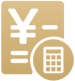
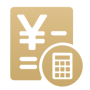
[feat]修改金额格式，千字符，我的凭证入口图标修改 related in issue #140

diff --git a/app/service/view/VouchersCell.js b/app/service/view/VouchersCell.js
@@ -15,71 +15,72 @@ import {
     InteractionManager
 } from 'react-native';
 import {SCREEN_HEIGHT,SCREEN_WIDTH} from '../../config';
+import {formatmoney} from '../../util/FormatMoney';
 const itemWidth = (SCREEN_WIDTH-setSpText(33))/4
 export default class VouchersCell extends Component {
     constructor(props){
         super(props)
-        this.state={
-            relateDate:'',
-            debitMoney:'',//借方总金额
-            subject_Abstract:'',//摘要
-        }
     }
 
     static defaultProps = {
         onPress:function() {//点击事件
 
         },
-        item:{}
+        item:{},
+        isclick:true,//列表可点击
     }
 
-    componentWillMount() {
+    renderItem(relateDate,debitMoney,subject_Abstract){
+        return(
+            <View style = {styles.ViewStyle}>
+                <View style = {[styles.itemStyle]}>
+                    <View style = {{flexDirection:'column-reverse',}}>
+                        <Text style={{fontSize:12,color:'#999999'}} numberOfLines={1}>{relateDate}</Text>
+                        <Text style={{fontSize:14,color:'#333333'}} numberOfLines={1}>{this.props.item.voucherWord}</Text>
+                    </View>
+                </View>
+                <View style = {[styles.itemStyle,{width:itemWidth*2}]}>
+                    <Text style={styles.digestStyle} numberOfLines={2}>{subject_Abstract}</Text>
+
+                </View>
+                <View style = {[styles.itemStyle,{borderRightWidth:0}]}>
+                    <Text style={styles.digestStyle}  numberOfLines={1}>{debitMoney}</Text>
+
+                </View>
+                <Image resizeMode = "contain" style = {styles.rightImgStyle} source={require('../../img/left_button.png')} />
+
+            </View>
+        )
+    }
+
+    render(){
+
         var strDate = this.props.item.relateDate.substring(0,10);
         var dateFormat = strDate.replace(/-/g, '.');
         var debitMoneyAll = 0;
+        var _Abstract = "";
         this.props.item.subjectDetails&&this.props.item.subjectDetails.map((item, i) => {
             debitMoneyAll+=item.debitMoney;
             console.log("打印金额之和="+item.debitMoney+",,,"+debitMoneyAll);
             if(i===0){
-                this.setState({
-                    subject_Abstract:item.subject_Abstract,
-                })
+                _Abstract=item.subject_Abstract;
             }
         })
-        this.setState({
-            relateDate:dateFormat,
-            debitMoney:debitMoneyAll.toFixed(2),//保留小数后两位
-        })
-    }
+        if(this.props.isclick){
+            return(
+                <TouchableOpacity onPress = {() => {this.props.onPress()}}>
+                    <View>
+                        {this.renderItem(dateFormat,formatmoney(debitMoneyAll),_Abstract)}
+                    </View>
+                </TouchableOpacity>
 
-    // onPress(item,itemDate){
-    //     this.props._goVoucherDetail(item,itemDate)
-    // }
-    render(){
-        return(
-            <TouchableOpacity onPress = {() => {this.props.onPress()}}>
-
-            <View style = {styles.ViewStyle}>
-            <View style = {[styles.itemStyle]}>
-                <View style = {{flexDirection:'column-reverse',}}>
-                    <Text style={{fontSize:12,color:'#999999'}} numberOfLines={1}>{this.state.relateDate}</Text>
-                    <Text style={{fontSize:14,color:'#333333'}} numberOfLines={1}>{this.props.item.voucherWord}</Text>
-                </View>
+            )
+        }else{
+            <View>
+                {this.renderItem(dateFormat,formatmoney(debitMoneyAll),_Abstract)}
             </View>
-            <View style = {[styles.itemStyle,{width:itemWidth*2}]}>
-                <Text style={styles.digestStyle} numberOfLines={2}>{this.state.subject_Abstract}</Text>
+        }
 
-            </View>
-            <View style = {[styles.itemStyle,{borderRightWidth:0}]}>
-                <Text style={styles.digestStyle}  numberOfLines={1}>{this.state.debitMoney}</Text>
-
-            </View>
-            <Image resizeMode = "contain" style = {styles.rightImgStyle} source={require('../../img/left_button.png')} />
-
-            </View>
-            </TouchableOpacity>
-
-        )
     }
 }
 

diff --git a/app/service/serviceDetail/VouchersListPage.js b/app/service/serviceDetail/VouchersListPage.js
@@ -28,7 +28,6 @@ export default class VouchersListPage extends BComponent {
     constructor(props){
         super(props)
         this.state={
-            total:'- -',//本月累计
             data:[],
             isRefreshing:false,
             isfirstRefresh:true,
@@ -121,6 +120,7 @@ export default class VouchersListPage extends BComponent {
             <VouchersCell
                 onPress = {this._goVoucherDetail.bind(this,item)}
                 item = {item.item}
+                isclick = {this.props.is_demo == '1'?false:true}
             />
 
         )

diff --git a/app/util/FormatMoney.js b/app/util/FormatMoney.js
@@ -1,0 +1,8 @@
+/**
+ * Created by jiaxueting on 2018/4/9.
+ * 金额格式化,让数字的千分位用,分隔
+ */
+export function formatmoney(number) {
+    let fmoney = number.toFixed(2).replace(/(\d)(?=(\d{3})+\.)/g, '$1,');//使用正则替换，每隔三个数加一个','
+    return fmoney;
+}
